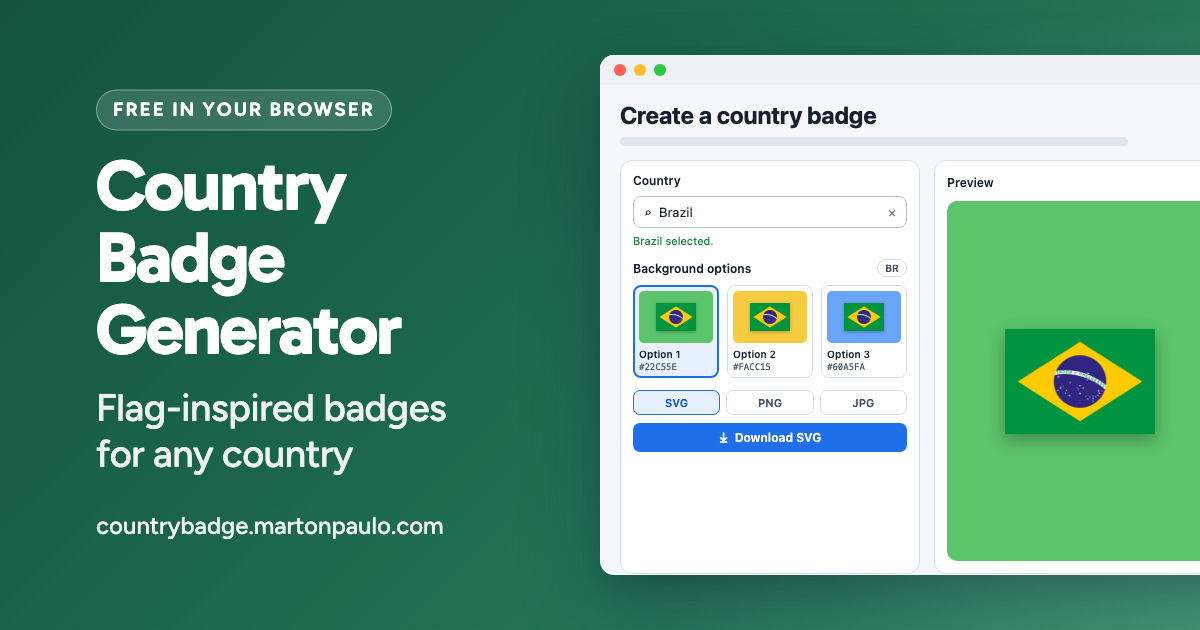
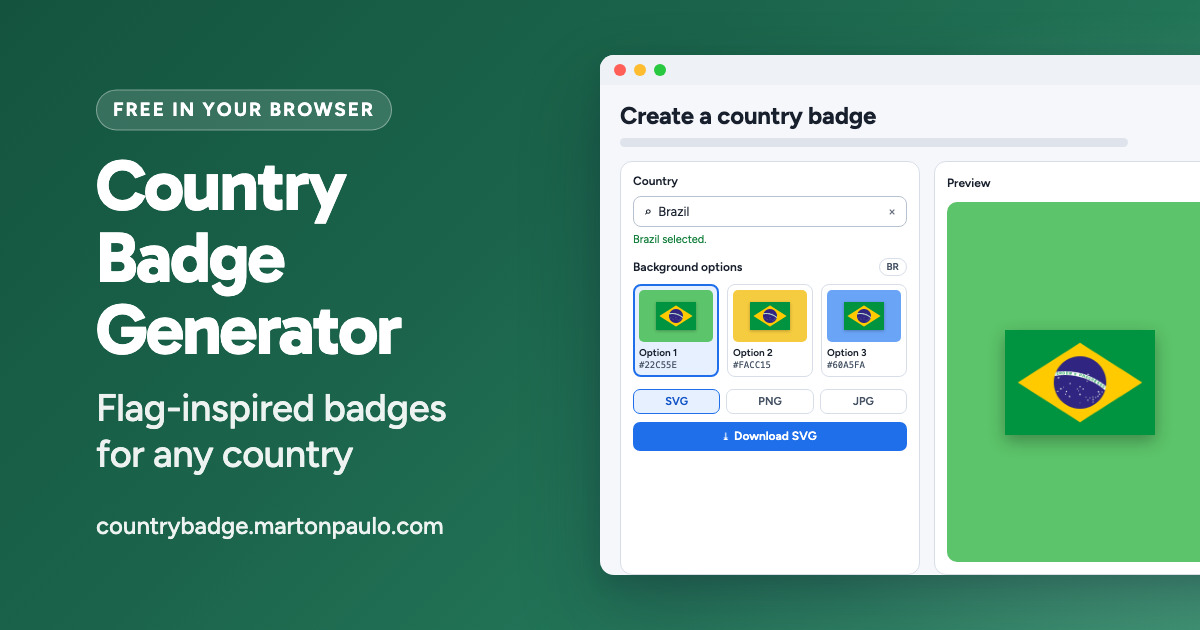
fix: draw the mock interface in the font the app actually uses
The card's mock interface was set in the macOS system font, with a comment
saying that is how the real app renders. That stopped being true when the
site adopted Figtree, so the card was advertising an interface the product
no longer has.

diff --git a/design/social-card/social-card.html b/design/social-card/social-card.html
@@ -1,7 +1,7 @@
 <!doctype html>
 <!-- Country Badge Generator social card. Source of truth for social-card.jpg, served at
      https://countrybadge.martonpaulo.com/social-card.jpg (1200x630). Never edit the JPEG.
-     Render on a Mac (the drawn interface uses the system font): pnpm social-card
+     Render: pnpm social-card
      System, grid and contrast rules: the social card standard (skill-deck#261).
      Fonts: Gabarito and Figtree (OFL, fonts/*-OFL.txt), the typefaces of martonpaulo.com. -->
 <meta charset="utf-8">
@@ -27,8 +27,10 @@ h1 { margin: 0; font: 700 88px/1 "Gabarito", sans-serif; letter-spacing: -0.03em
 .promise { margin: 20px 0 0; font-weight: 500; font-size: 38px; line-height: 1.2; letter-spacing: -0.01em;
            color: var(--ink-soft); text-wrap: balance; }
 .domain { margin: 34px 0 0; font-size: 24px; font-weight: 500; color: var(--ink-soft); }
-/* The drawn interface: the system font, the way the real app renders. */
-.ui { font-family: -apple-system, BlinkMacSystemFont, "SF Pro Text", "Helvetica Neue", sans-serif; color: #1f2937; }
+/* The drawn interface: Figtree, the way the real app renders. This used to be
+   the system font, which stopped being true when the site adopted the fleet
+   typography — a mock interface has to follow the product it is drawing. */
+.ui { font-family: "Figtree", sans-serif; color: #1f2937; }
 .win { position: absolute; background: #fff; border-radius: 22px;
        box-shadow: 0 40px 80px rgba(15,23,42,.30), 0 8px 20px rgba(15,23,42,.12); }
 .bar { height: 11px; border-radius: 6px; background: #e5e7eb; }
